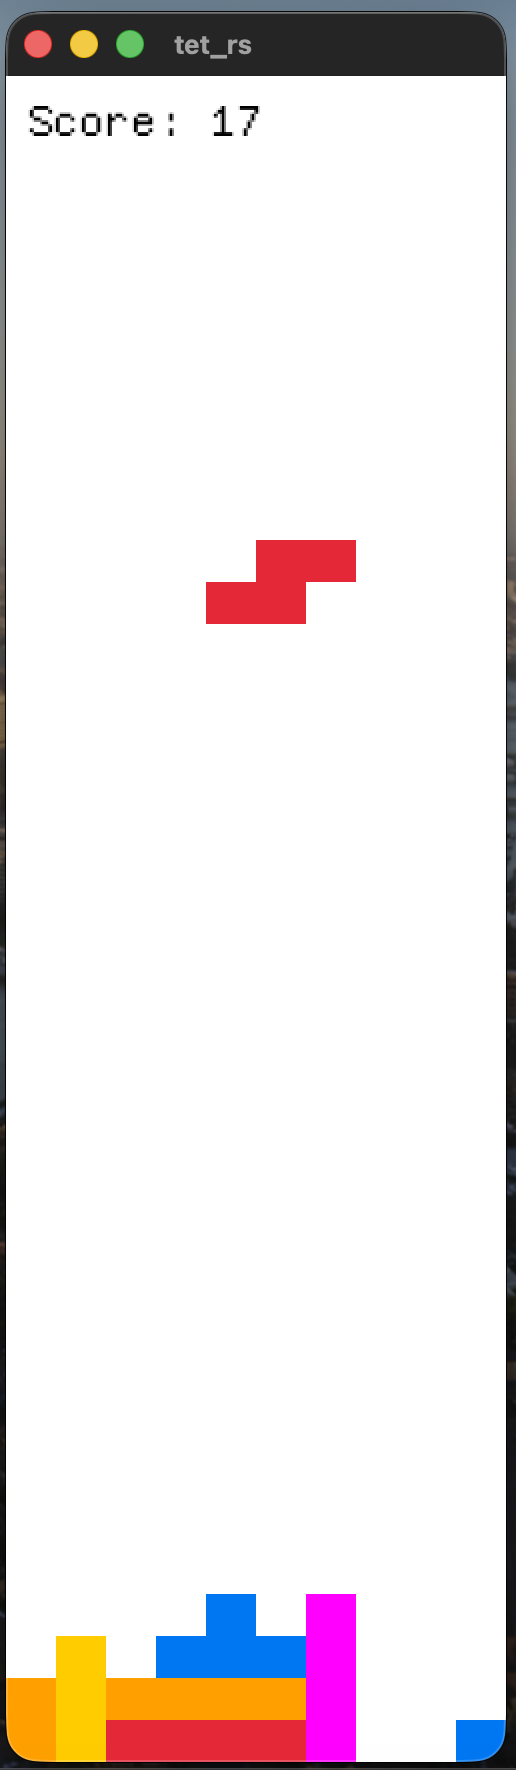
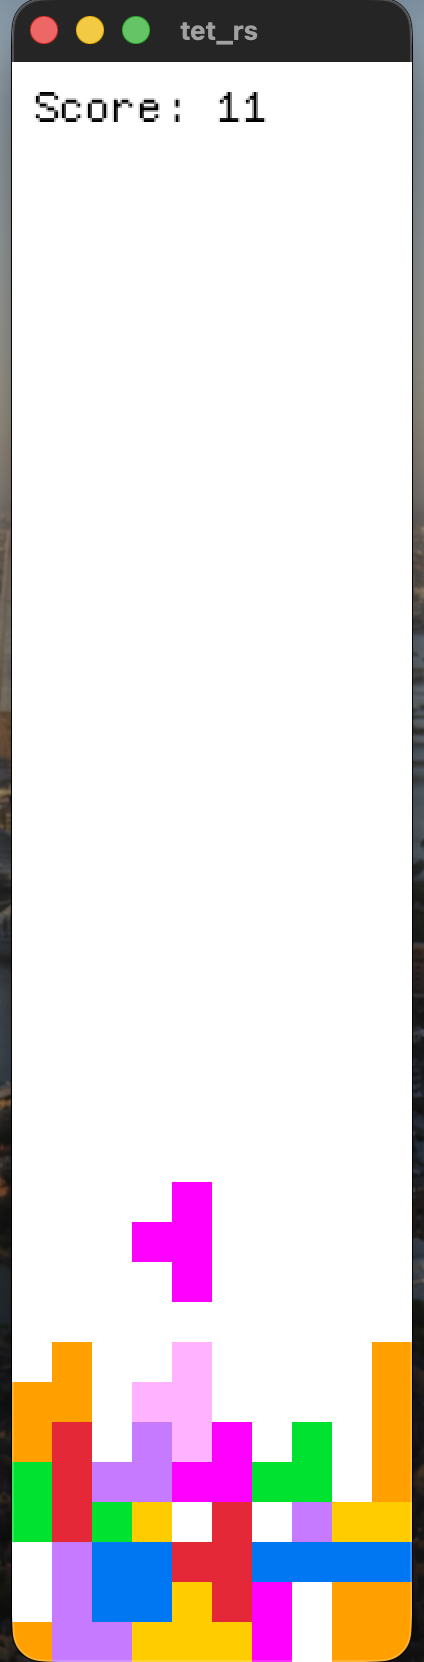
hard drop

Changed region(s): [[0.0, 0.0, 1.0, 1.0], [0.3986, 0.3069, 0.7052, 0.3682]]

diff --git a/src/game.rs b/src/game.rs
@@ -1,5 +1,8 @@
 use crate::{
-    board::{BOARD_HEIGHT, BOARD_WIDTH, Board, Cell, empty_board, render_board},
+    board::{
+        BOARD_HEIGHT, BOARD_WIDTH, Board, Cell, apply_player_to_board, apply_player_to_board_ghost,
+        empty_board, render_board,
+    },
     piece::{PlayerPiece, rotate_piece_grid_clockwise},
 };
 use macroquad::rand::{gen_range, srand};
@@ -10,18 +13,20 @@ pub struct Game {
     pub player_piece: PlayerPiece,
     pub score: usize,
     pub game_over: bool,
+    pub show_ghost: bool,
 }
 
 const WALL_KICKS: [[isize; 2]; 4] = [[0, 1], [1, 0], [0, -1], [-1, 0]];
 
 impl Game {
-    pub fn new() -> Self {
+    pub fn new(show_ghost: bool) -> Self {
         srand(now() as u64);
         Game {
             board: empty_board(),
             player_piece: Self::spawn_piece(),
             score: 0,
             game_over: false,
+            show_ghost,
         }
     }
 
@@ -30,26 +35,27 @@ impl Game {
     fn spawn_piece() -> PlayerPiece {
         let piece_index = gen_range(0, 7) as usize;
         let color = Self::PIECE_COLORS[gen_range(0, 7) as usize];
-        PlayerPiece::new_random_piece(piece_index, color)
+        PlayerPiece::new_piece(piece_index, color)
     }
 
     pub fn render(&self) {
-        let mut board_with_player: Board = self.board;
-        for dr in 0..4 {
-            for dc in 0..4 {
-                if !self.player_piece.piece_grid[dr as usize][dc as usize] {
-                    continue;
-                }
-                let r = self.player_piece.y + dr;
-                let c = self.player_piece.x + dc;
-                if (0..BOARD_HEIGHT as isize).contains(&r) && (0..BOARD_WIDTH as isize).contains(&c)
-                {
-                    board_with_player[r as usize][c as usize] =
-                        Cell::Filled(self.player_piece.color);
-                }
-            }
+        let mut board = apply_player_to_board(&self.player_piece, &self.board);
+
+        if self.show_ghost {
+            let ghost = self.get_ghost_player();
+            board = apply_player_to_board_ghost(&ghost, &board, 0.3);
         }
-        render_board(board_with_player);
+
+        render_board(board);
+    }
+
+    pub fn get_ghost_player(&self) -> PlayerPiece {
+        let mut ghost = self.player_piece.clone();
+        while !self.player_piece_has_collision(&ghost) {
+            ghost.y += 1;
+        }
+        ghost.y -= 1;
+        ghost
     }
 
     pub fn move_player_left(&mut self) {
@@ -70,6 +76,9 @@ impl Game {
             self.player_piece.y -= 1;
         }
     }
+    pub fn hard_drop(&mut self) {
+        self.player_piece = self.get_ghost_player();
+    }
 
     pub fn rotate_player(&mut self) {
         self.player_piece.piece_grid = rotate_piece_grid_clockwise(self.player_piece.piece_grid);
@@ -89,23 +98,23 @@ impl Game {
     }
 
     fn has_collision(&self) -> bool {
-        self.player_piece
-            .piece_grid
-            .iter()
-            .enumerate()
-            .any(|(dr, row)| {
-                row.iter().enumerate().any(|(dc, filled)| {
-                    if !filled {
-                        return false;
-                    }
-                    let r = self.player_piece.y + dr as isize;
-                    let c = self.player_piece.x + dc as isize;
-                    if r < 0 || r >= BOARD_HEIGHT as isize || c < 0 || c >= BOARD_WIDTH as isize {
-                        return true;
-                    }
-                    self.board[r as usize][c as usize] != Cell::Empty
-                })
+        self.player_piece_has_collision(&self.player_piece)
+    }
+
+    fn player_piece_has_collision(&self, player_piece: &PlayerPiece) -> bool {
+        player_piece.piece_grid.iter().enumerate().any(|(dr, row)| {
+            row.iter().enumerate().any(|(dc, filled)| {
+                if !filled {
+                    return false;
+                }
+                let r = player_piece.y + dr as isize;
+                let c = player_piece.x + dc as isize;
+                if r < 0 || r >= BOARD_HEIGHT as isize || c < 0 || c >= BOARD_WIDTH as isize {
+                    return true;
+                }
+                self.board[r as usize][c as usize] != Cell::Empty
             })
+        })
     }
 
     pub fn check_if_piece_has_terminated(&mut self) {
@@ -116,25 +125,9 @@ impl Game {
             if self.player_piece.y == 0 {
                 self.game_over = true;
             }
-            self.apply_player_to_board();
+            self.board = apply_player_to_board(&self.player_piece, &self.board);
             self.player_piece = Self::spawn_piece();
             self.clear_rows_and_shift_squares_down();
-        }
-    }
-
-    fn apply_player_to_board(&mut self) {
-        for dr in 0..4 {
-            for dc in 0..4 {
-                if !self.player_piece.piece_grid[dr as usize][dc as usize] {
-                    continue;
-                }
-                let r = self.player_piece.y + dr;
-                let c = self.player_piece.x + dc;
-                if (0..BOARD_HEIGHT as isize).contains(&r) && (0..BOARD_WIDTH as isize).contains(&c)
-                {
-                    self.board[r as usize][c as usize] = Cell::Filled(self.player_piece.color);
-                }
-            }
         }
     }
 

diff --git a/src/board.rs b/src/board.rs
@@ -1,4 +1,6 @@
 use macroquad::prelude::*;
+
+use crate::piece::PlayerPiece;
 pub const BOARD_HEIGHT: usize = 40;
 pub const BOARD_WIDTH: usize = 10;
 
@@ -40,4 +42,32 @@ fn cell_to_color(cell: Cell) -> Color {
         Cell::Empty => WHITE,
         Cell::Filled(color) => color,
     }
+}
+
+pub fn apply_player_to_board(player: &PlayerPiece, board: &Board) -> Board {
+    apply_player_to_board_ghost(player, board, 1.0)
+}
+
+pub fn apply_player_to_board_ghost(player: &PlayerPiece, board: &Board, intensity: f32) -> Board {
+    let mut board_with_player: Board = *board;
+    for dr in 0..4 {
+        for dc in 0..4 {
+            if !player.piece_grid[dr as usize][dc as usize] {
+                continue;
+            }
+            let r = player.y + dr;
+            let c = player.x + dc;
+            if (0..BOARD_HEIGHT as isize).contains(&r) && (0..BOARD_WIDTH as isize).contains(&c) {
+                let bg = cell_to_color(board_with_player[r as usize][c as usize]);
+                let ghost_color = Color::new(
+                    player.color.r * intensity + bg.r * (1.0 - intensity),
+                    player.color.g * intensity + bg.g * (1.0 - intensity),
+                    player.color.b * intensity + bg.b * (1.0 - intensity),
+                    1.0,
+                );
+                board_with_player[r as usize][c as usize] = Cell::Filled(ghost_color);
+            }
+        }
+    }
+    board_with_player
 }

diff --git a/src/main.rs b/src/main.rs
@@ -8,15 +8,15 @@ use crate::game::Game;
 fn window_conf() -> Conf {
     Conf {
         window_title: "tet_rs".to_owned(),
-        window_width: 250,
-        window_height: 1000,
+        window_width: 200,
+        window_height: 800,
         ..Default::default()
     }
 }
 
 #[macroquad::main(window_conf)]
 async fn main() {
-    let mut game = Game::new();
+    let mut game = Game::new(true);
     let mut last_drop = get_time();
     let mut last_soft_drop = get_time();
     loop {
@@ -31,6 +31,12 @@ async fn main() {
             if is_key_down(KeyCode::Down) && now - last_soft_drop >= 0.05 {
                 game.move_player_down();
                 last_soft_drop = now;
+            }
+            if is_key_pressed(KeyCode::Up) {
+                game.hard_drop()
+            }
+            if is_key_pressed(KeyCode::G) {
+                game.show_ghost = !game.show_ghost;
             }
             if is_key_pressed(KeyCode::Space) {
                 game.rotate_player();
@@ -51,7 +57,7 @@ async fn main() {
             draw_text(&format!("Score: {}", game.score), 10.0, 60.0, 30.0, BLACK);
             draw_text("Press R to restart", 10.0, 90.0, 30.0, BLACK);
             if is_key_pressed(KeyCode::R) {
-                game = Game::new();
+                game = Game::new(true);
             }
         }
 

diff --git a/src/piece.rs b/src/piece.rs
@@ -63,7 +63,7 @@ pub struct PlayerPiece {
 }
 
 impl PlayerPiece {
-    pub fn new_random_piece(piece_index: usize, color: Color) -> Self {
+    pub fn new_piece(piece_index: usize, color: Color) -> Self {
         PlayerPiece {
             piece_grid: PIECE_GRIDS[piece_index],
             color,

diff --git a/README.md b/README.md
@@ -8,7 +8,10 @@ A Tetris clone written in Rust using [macroquad](https://github.com/not-fl3/macr
 
 - **Left/Right arrows** - move piece
 - **Down arrow** (hold) - soft drop
+- **Up arrow** - hard drop
 - **Space** - rotate
+- **G** - toggle ghost piece
+- **R** - restart (on game over)
 
 ## Build & Run
 
